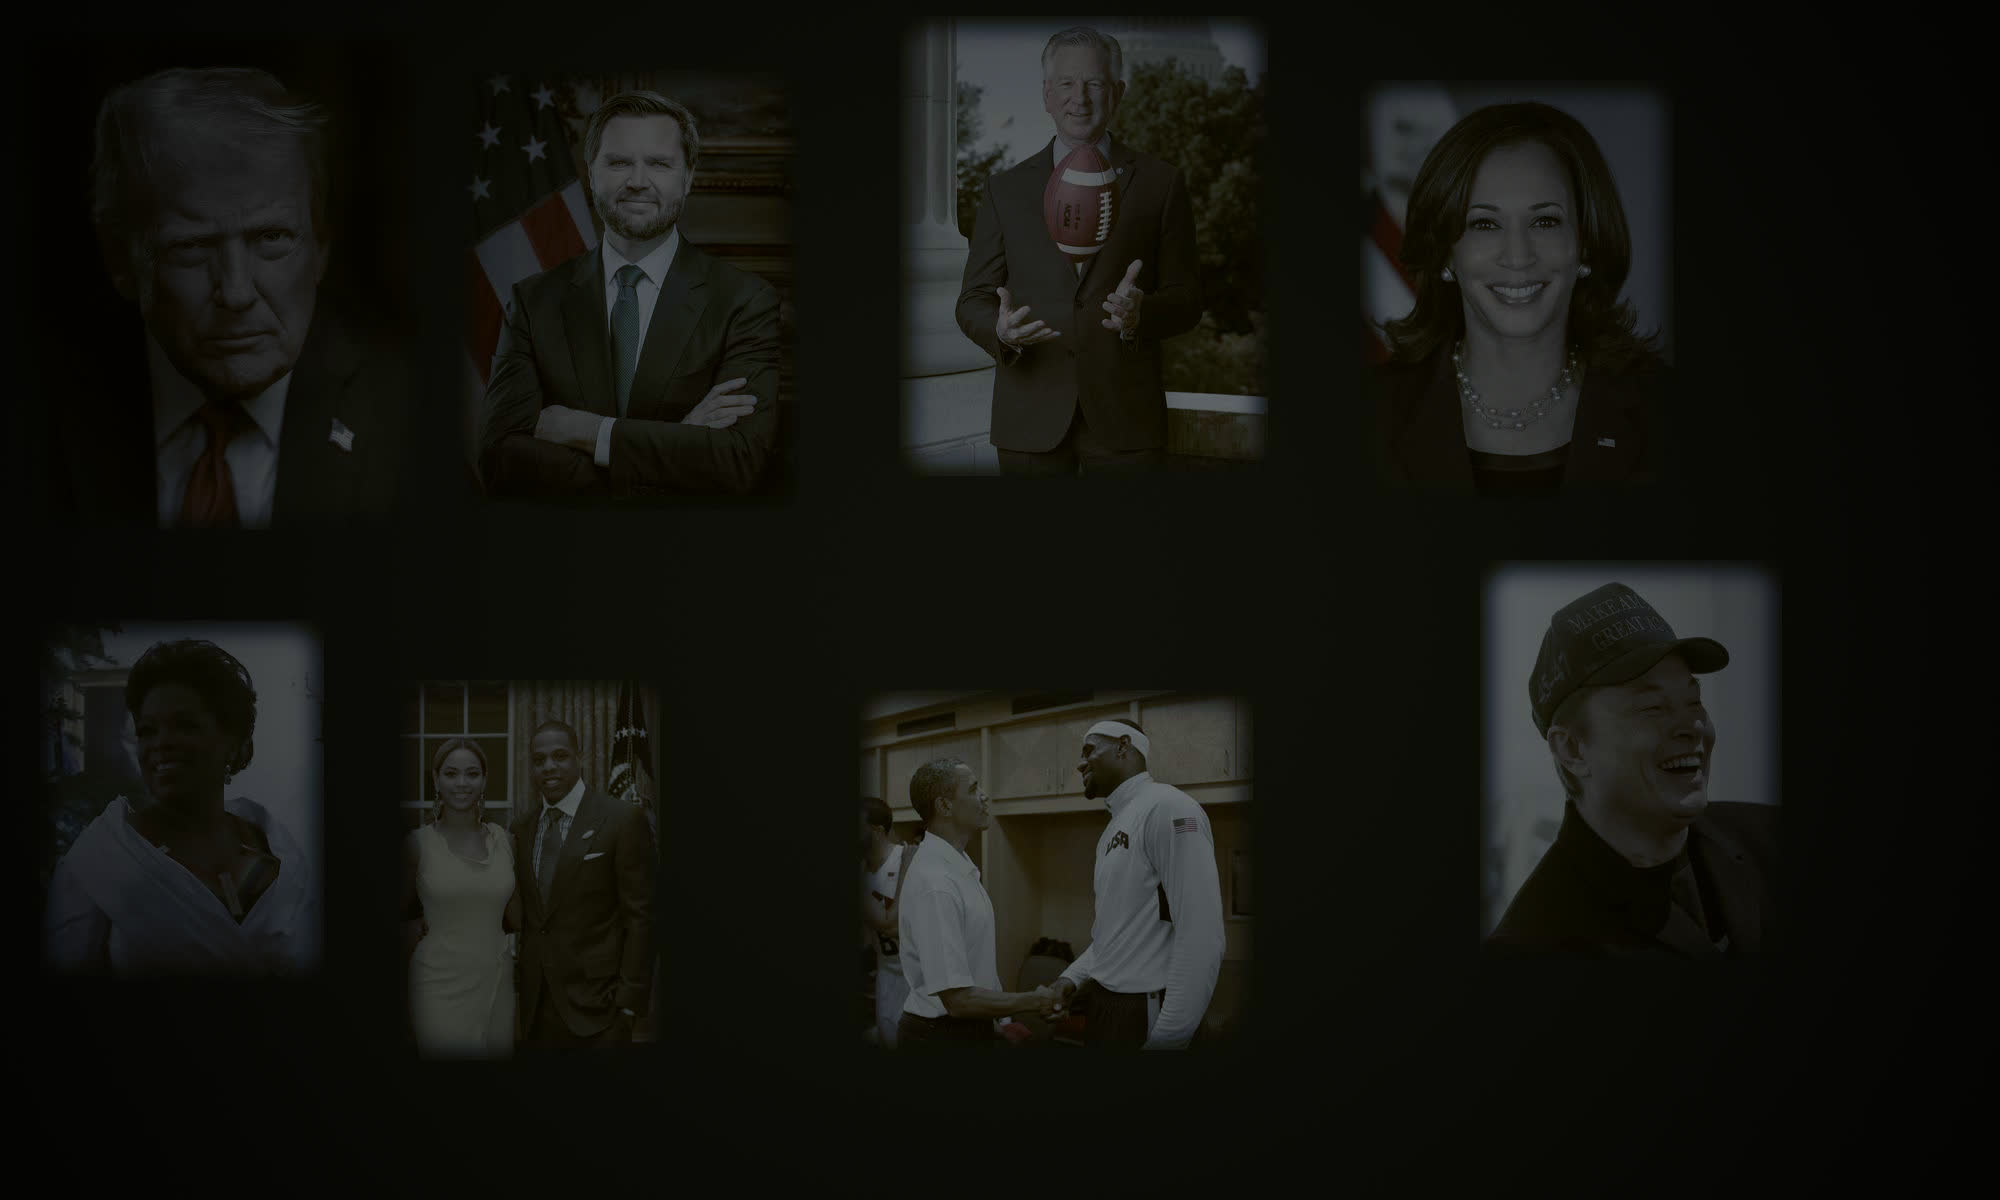
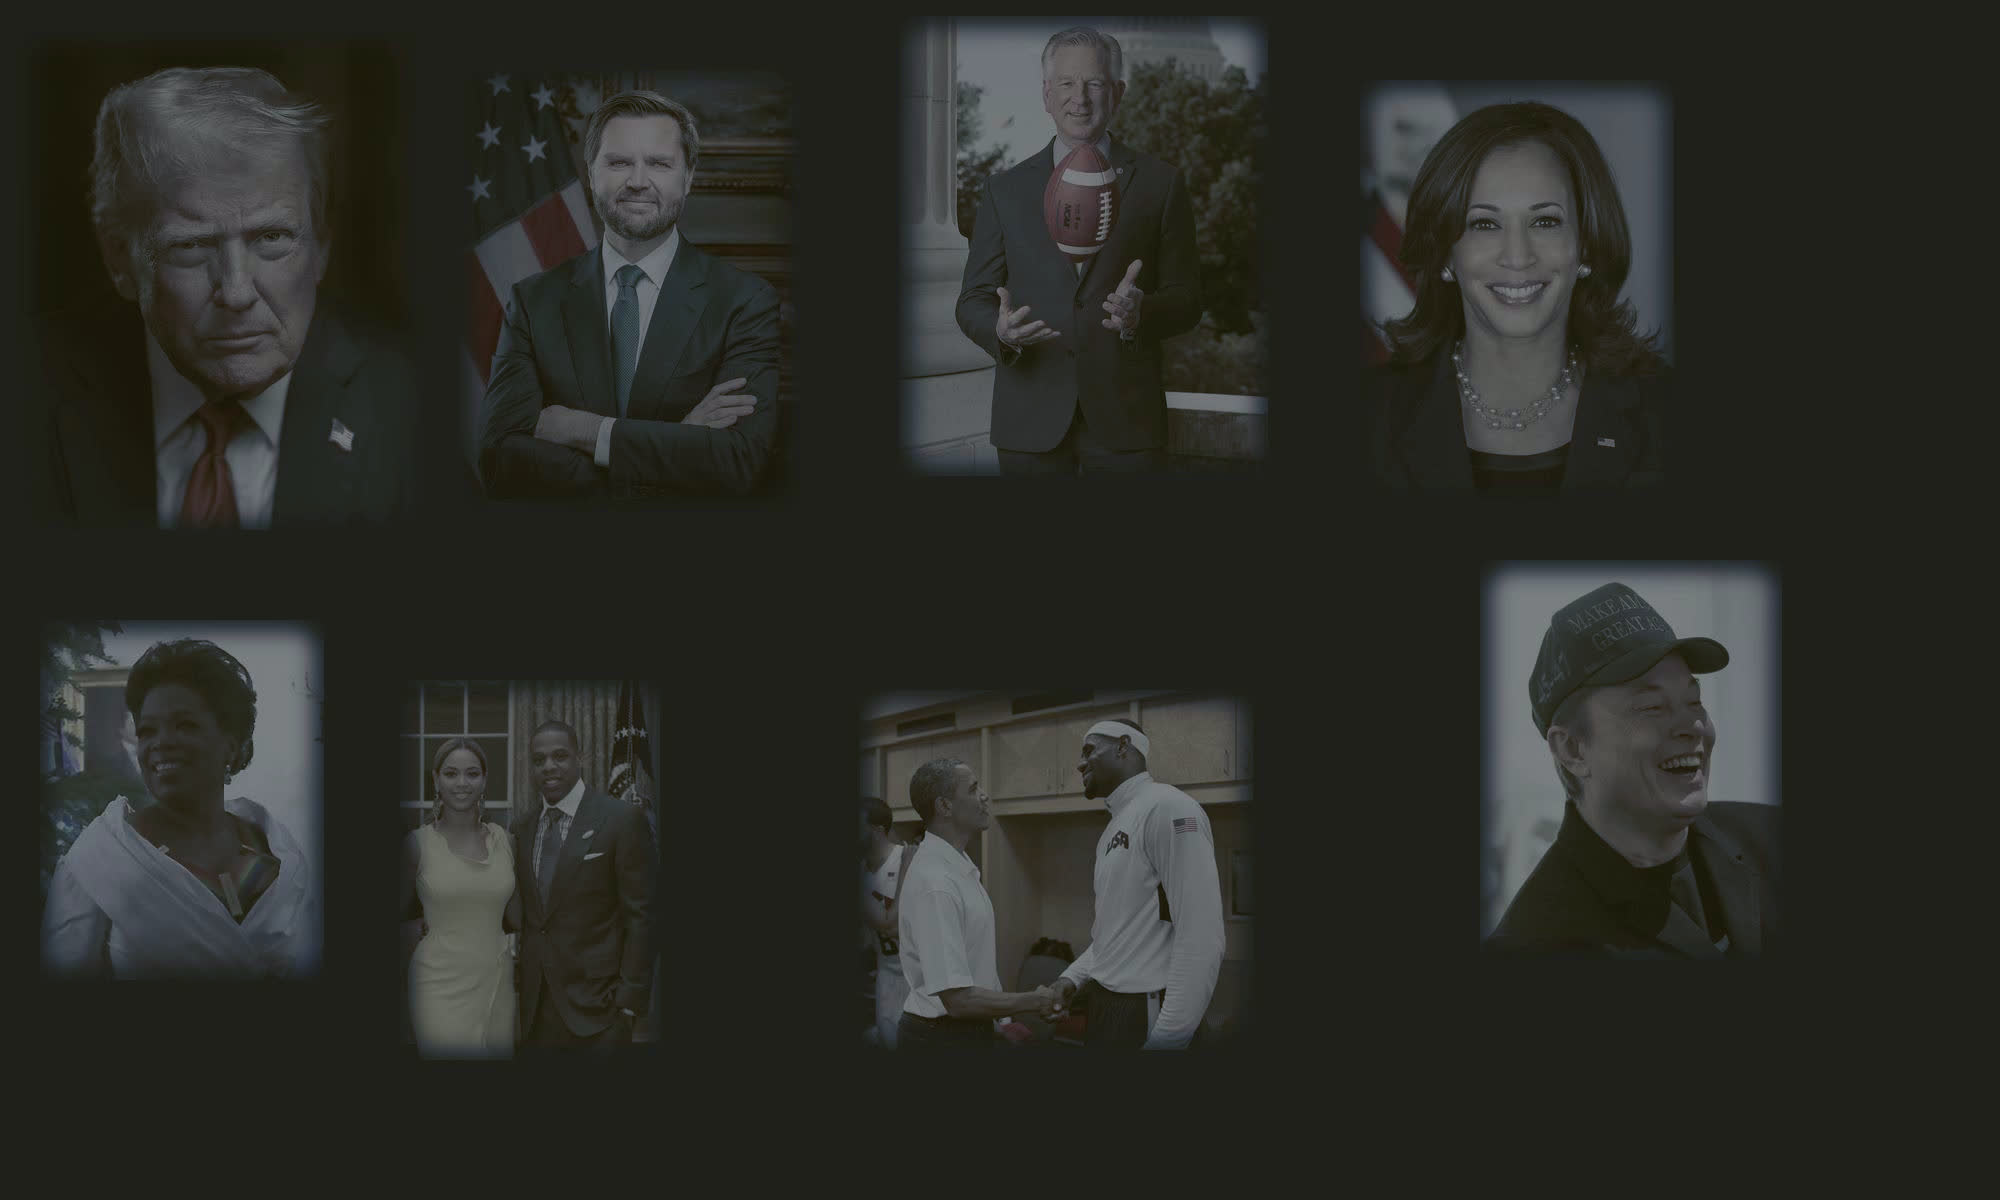
Softer color grade, lighter vignette

diff --git a/style.css b/style.css
@@ -3,7 +3,7 @@
 html{background:#080d14}
 body{margin:0;color:var(--fg);font:15px/1.55 -apple-system,BlinkMacSystemFont,"Segoe UI",Roboto,sans-serif;
   background-color:#080d14;
-  background-image:radial-gradient(ellipse at 50% 42%,rgba(8,13,20,0) 28%,rgba(8,13,20,.42) 100%),url("assets/collage-bg.jpg?v=3");
+  background-image:radial-gradient(ellipse at 50% 40%,rgba(8,13,20,.05) 0%,rgba(8,13,20,.28) 100%),url("assets/collage-bg.jpg?v=4");
   background-repeat:no-repeat;background-position:center;background-size:cover;background-attachment:fixed}
 header{padding:14px 16px 10px;border-bottom:1px solid var(--line);position:sticky;top:0;background:rgba(8,13,20,.94);backdrop-filter:blur(12px);z-index:2}
 @media(prefers-reduced-motion:reduce){header::after{animation:none}}

diff --git a/index.html b/index.html
@@ -26,7 +26,7 @@
 <link rel="preconnect" href="https://fonts.googleapis.com">
 <link rel="preconnect" href="https://fonts.gstatic.com" crossorigin>
 <link rel="stylesheet" href="https://fonts.googleapis.com/css2?family=Cinzel+Decorative:wght@700;900&display=swap">
-<link rel="stylesheet" href="style.css?v=11">
+<link rel="stylesheet" href="style.css?v=12">
 </head>
 <body>
 <header>
